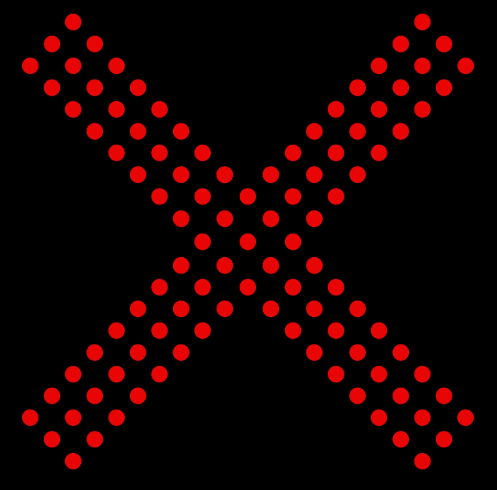
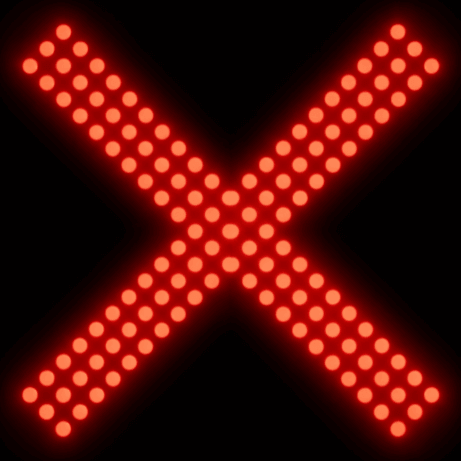
v1.2.5

diff --git a/README.md b/README.md
@@ -3,7 +3,7 @@
 > a Mod based on Write Everywhere of Cities:skylines2.
 
 <p align="center">
-<img alt="Version" src="https://img.shields.io/badge/version-1.2.2-3f51b5.svg?style=flat-square"/>
+<img alt="Version" src="https://img.shields.io/badge/version-1.2.5-3f51b5.svg?style=flat-square"/>
 <a href="https://baipin.pw"><img alt="baipin" src="https://img.shields.io/badge/author-baipin-orange.svg?style=flat-square"/></a>
 <a href="https://mods.paradoxplaza.com/mods/125896/Windows"><img alt="Download" src="https://img.shields.io/badge/download-14.14M-brightgreen.svg?style=flat-square"/></a>
 <a href="https://github.com/baipin/baipin-HongKongsigns/LICENSE.md"><img alt="License" src="https://img.shields.io/badge/license-MPL%20V2.0-orange.svg?style=flat-square"/></a>

diff --git a/_BaseModule/changelog.md b/_BaseModule/changelog.md
@@ -1,4 +1,10 @@
-**v1.2.4.1**
+**v1.2.5**
 
-### Hot Fixed
-- A hot fix for a small error in v1.2.3. (The bug that some warning signs disappear due to the image pix is out of the limit in a single folder.)
+### Added
+- Layout for exit prediction sign set next to the road.
+
+### Optimized
+- Remake the image for the red cross of the lane signal.
+
+### Fixed
+- The bug that STOP sign disappear due to the image pix is out of the limit in a single folder.
